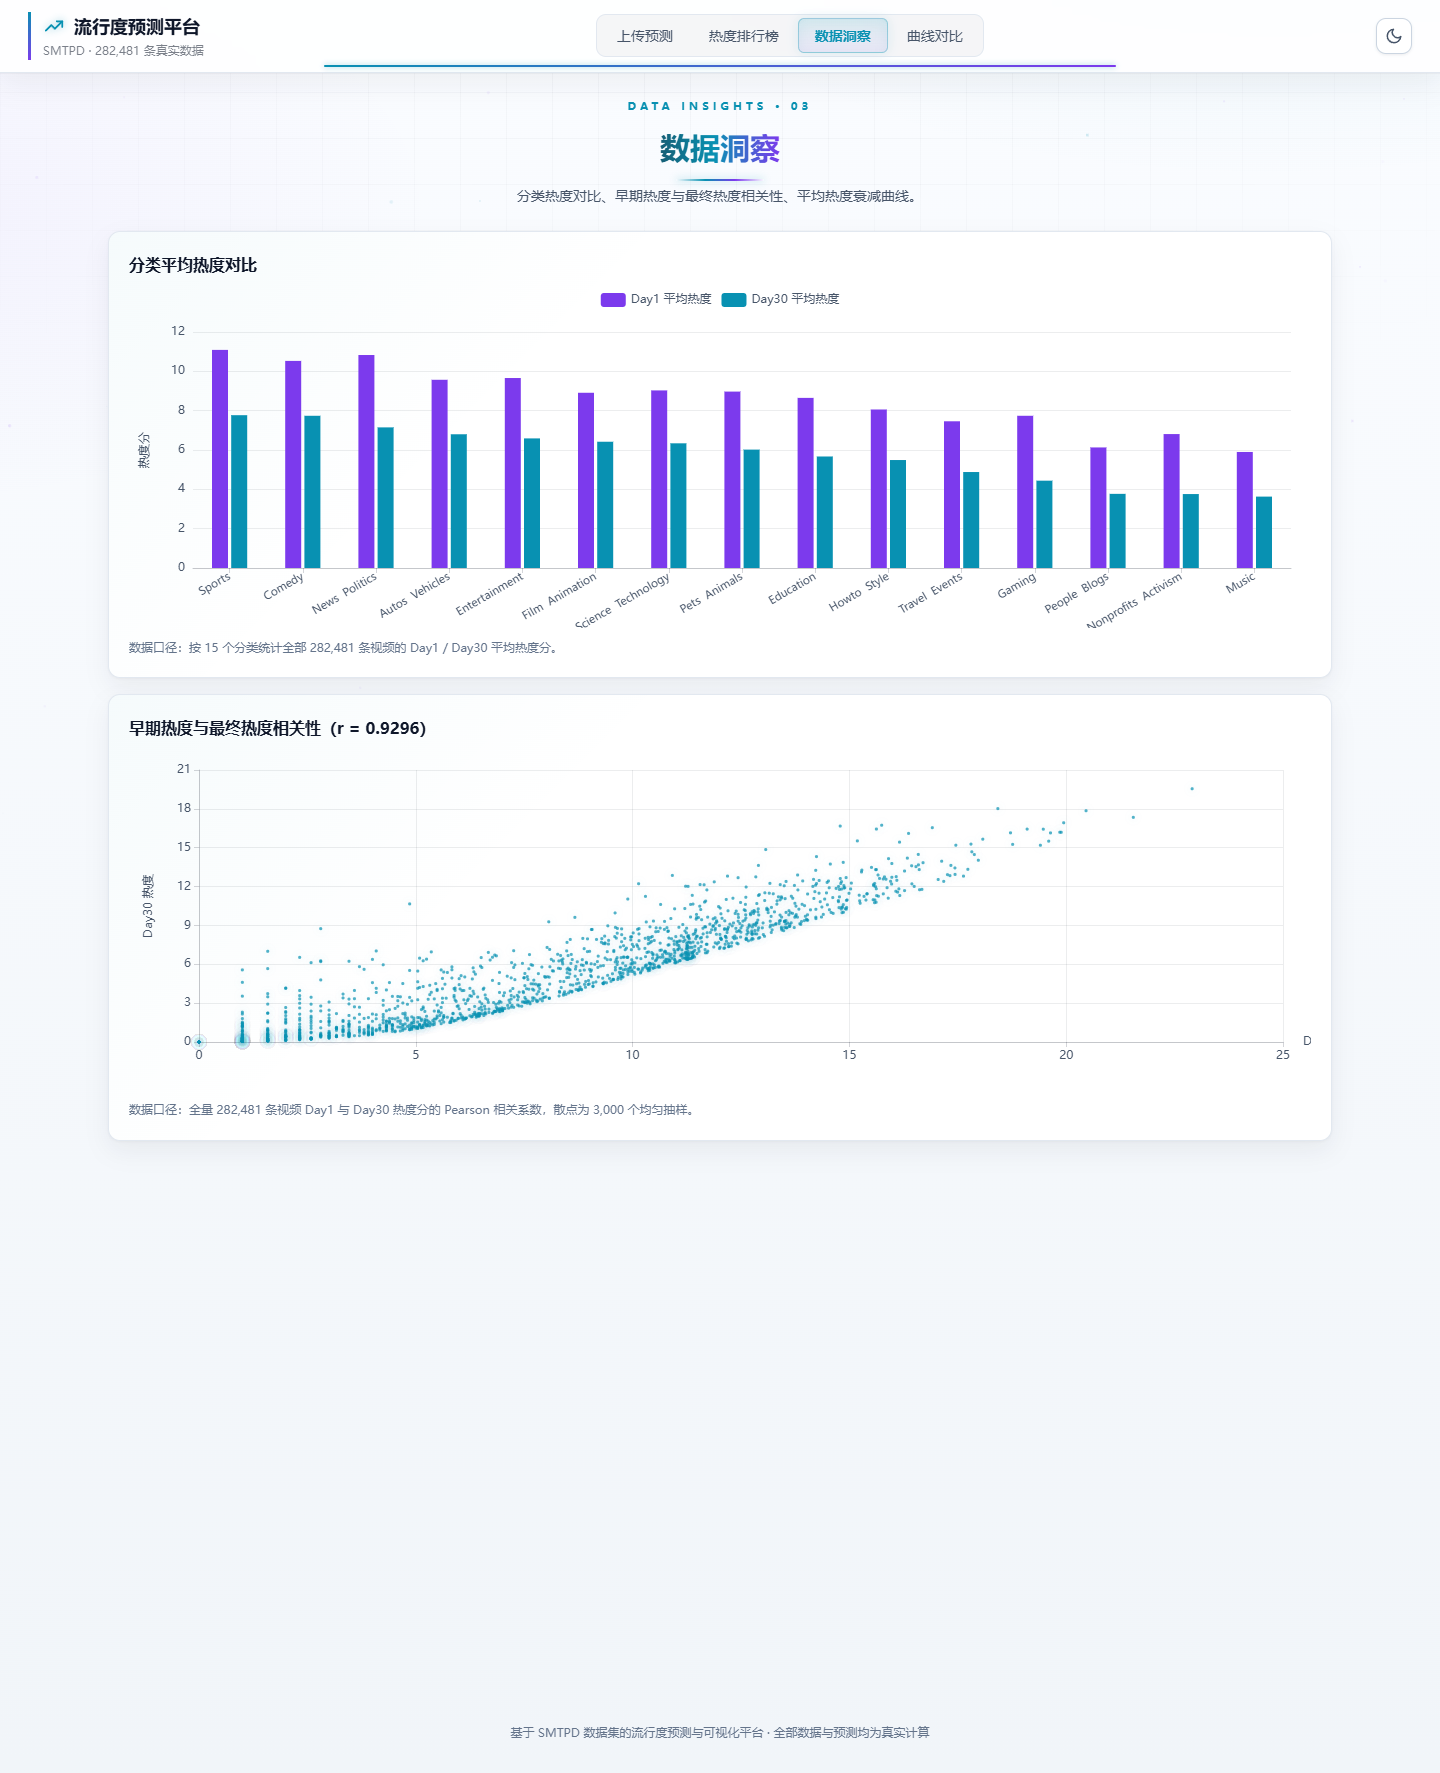
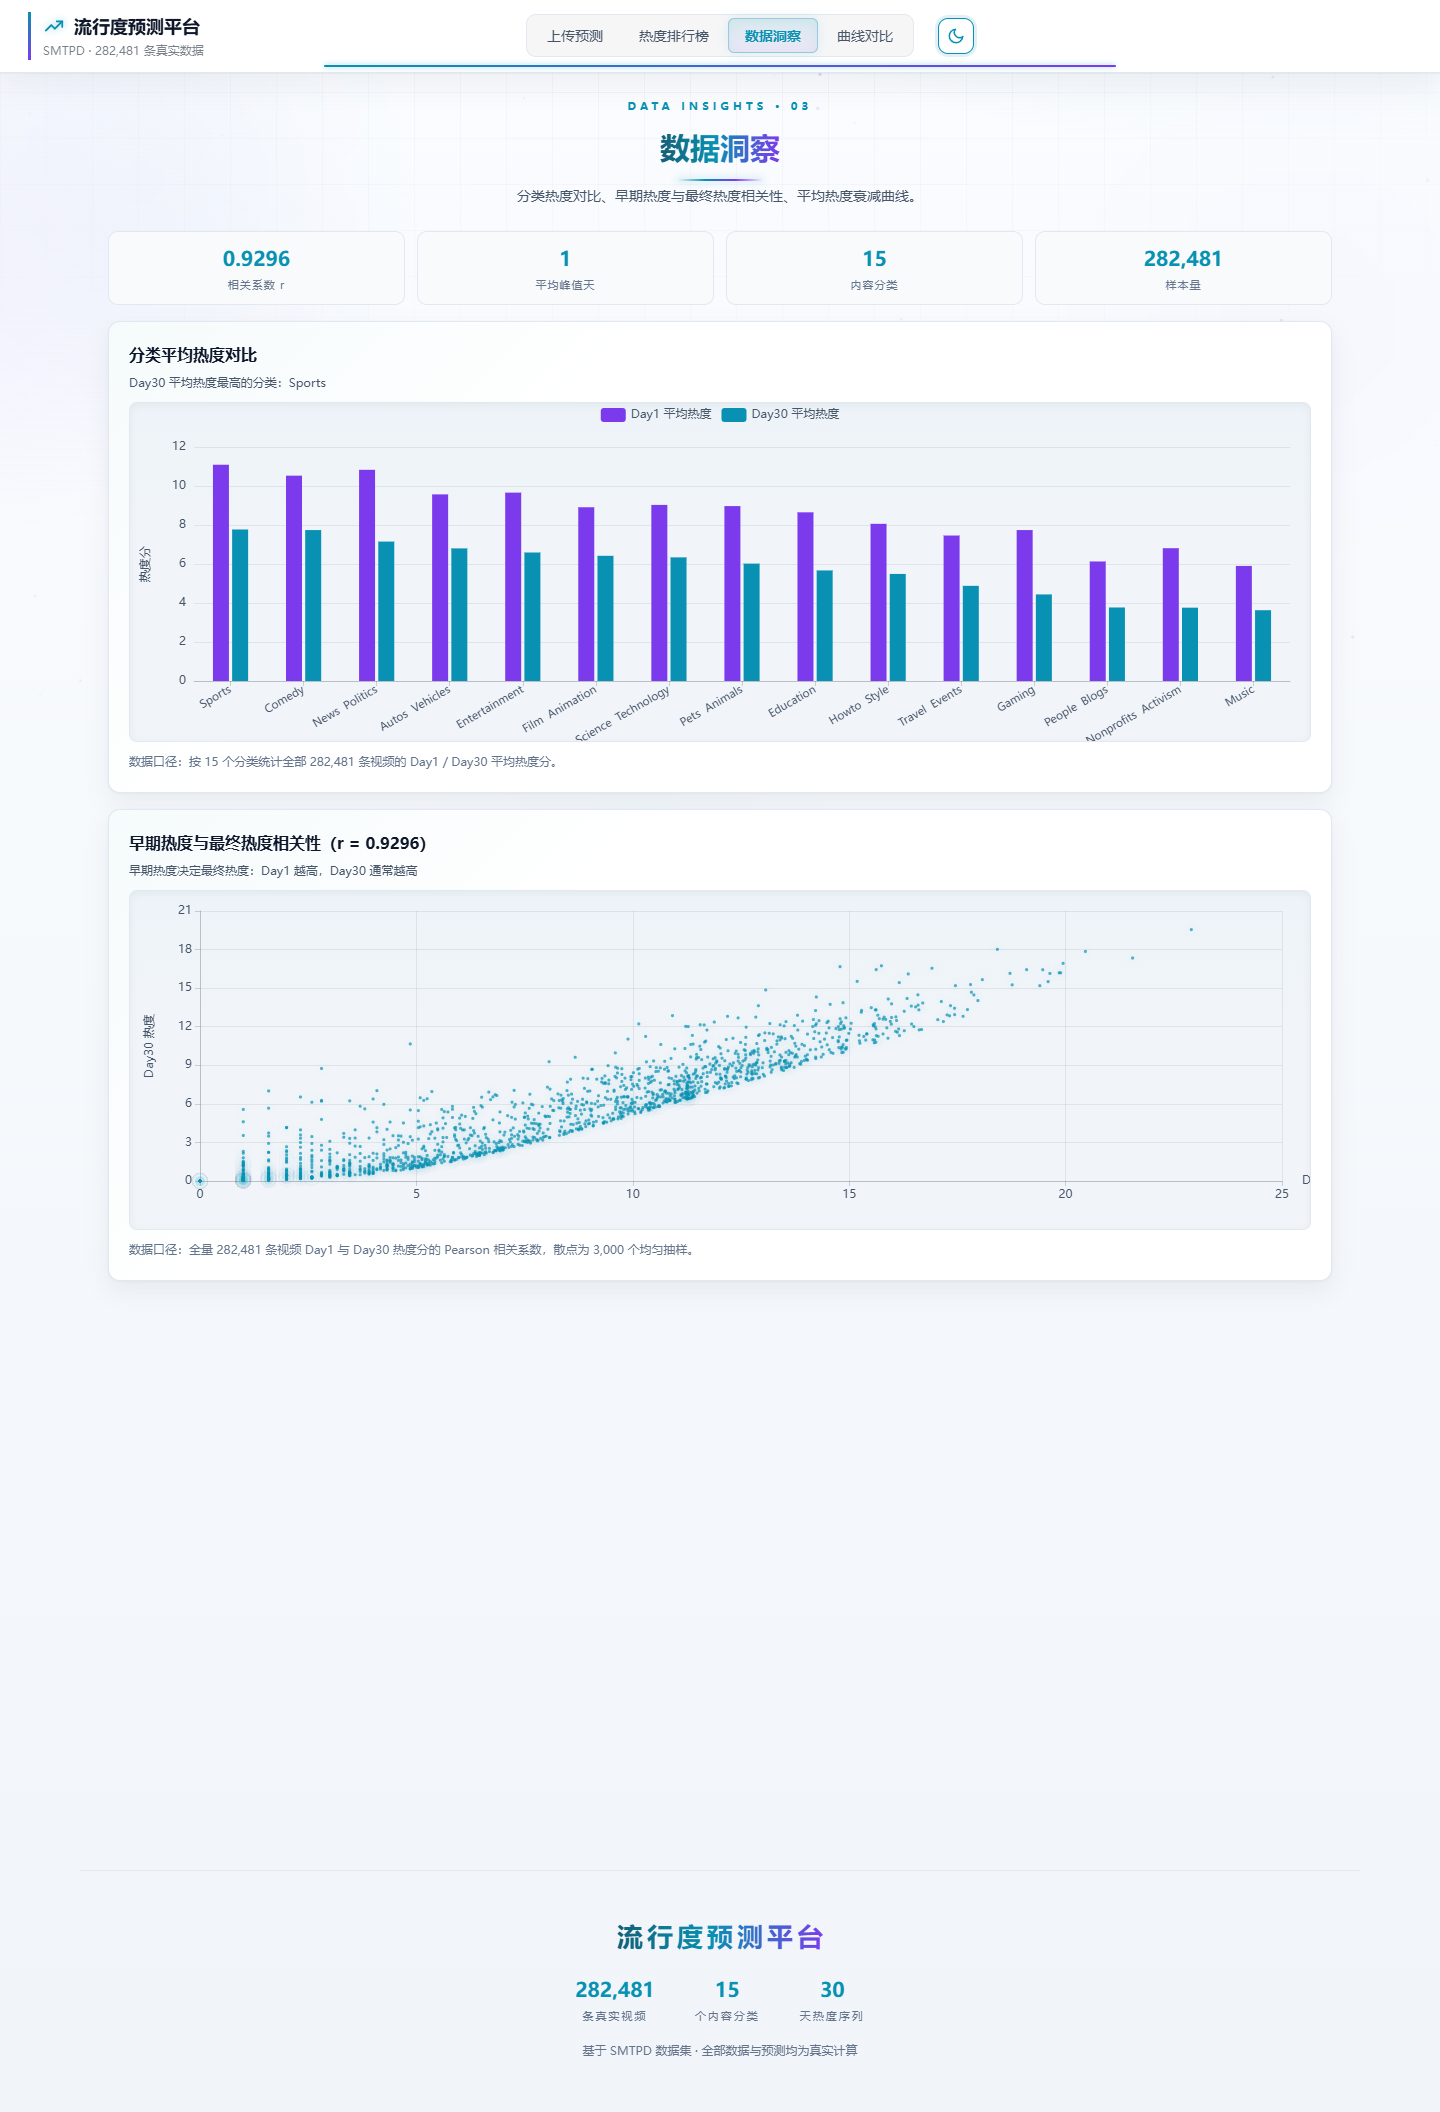
阶段G-6：对比页迷你趋势线 + 浅色粒子减半 + 详情大图 + 文档与截图更新

diff --git a/src/main/resources/static/js/compare.js b/src/main/resources/static/js/compare.js
@@ -123,9 +123,13 @@
         drawChart(items);
         const C = window.chartColors ? window.chartColors() : {};
         tableBody.innerHTML = items.map(function (video, i) {
+            const color = C[COLOR_KEYS[i % 3]] || COLORS[i % 3];
             return "<tr>" +
-                "<td><span class=\"legend-dot\" style=\"background:" + (C[COLOR_KEYS[i % 3]] || COLORS[i % 3]) + "\"></span>" +
-                escapeHtml(video.title) + "</td>" +
+                "<td>" +
+                "<span class=\"legend-dot\" style=\"background:" + color + "\"></span>" +
+                escapeHtml(video.title) +
+                sparkline(video.curve, color) +
+                "</td>" +
                 "<td>" + escapeHtml(video.userId) + "</td>" +
                 "<td>第 " + video.peakDay + " 天</td>" +
                 "<td>" + (video.decayRate * 100).toFixed(1) + "%</td>" +
@@ -133,6 +137,33 @@
                 "</tr>";
         }).join("");
         resultEl.scrollIntoView({ behavior: "smooth", block: "start" });
+    }
+
+    function sparkline(curve, color) {
+        if (!curve || curve.length < 2) {
+            return "";
+        }
+        const w = 120;
+        const h = 26;
+        const pad = 2;
+        let min = curve[0];
+        let max = curve[0];
+        curve.forEach(function (v) {
+            if (v < min) { min = v; }
+            if (v > max) { max = v; }
+        });
+        const range = max - min || 1;
+        const pts = curve.map(function (v, i) {
+            const x = pad + (i / (curve.length - 1)) * (w - pad * 2);
+            const y = h - pad - ((v - min) / range) * (h - pad * 2);
+            return x.toFixed(1) + "," + y.toFixed(1);
+        }).join(" ");
+        return '<div class="compare-spark-wrap">' +
+            '<svg class="compare-spark" viewBox="0 0 ' + w + " " + h +
+            '" width="' + w + '" height="' + h + '" preserveAspectRatio="none">' +
+            '<polyline points="' + pts + '" fill="none" stroke="' + color +
+            '" stroke-width="1.5" stroke-linejoin="round" stroke-linecap="round"/>' +
+            "</svg></div>";
     }
 
     function drawChart(items) {

diff --git a/src/main/resources/static/js/effects.js b/src/main/resources/static/js/effects.js
@@ -201,7 +201,9 @@
 
         var PALETTE_DARK = ["rgba(34, 211, 238, ALPHA)", "rgba(167, 139, 250, ALPHA)"];
         var PALETTE_LIGHT = ["rgba(8, 145, 178, ALPHA)", "rgba(124, 58, 237, ALPHA)"];
-        for (var i = 0; i < 55; i++) {
+        var lightMode = document.documentElement.getAttribute("data-theme") === "light";
+        var particleCount = lightMode ? 26 : 55;
+        for (var i = 0; i < particleCount; i++) {
             parts.push({
                 x: Math.random() * canvas.width,
                 y: Math.random() * canvas.height,

diff --git a/src/main/resources/static/css/style.css b/src/main/resources/static/css/style.css
@@ -2388,6 +2388,21 @@ html[data-theme="light"] .trend-chip:hover {
     gap: 14px;
 }
 
+/* ---- 阶段G-6：对比迷你趋势线 + 详情大图 ---- */
+.compare-spark-wrap {
+    margin-top: 6px;
+}
+
+.compare-spark {
+    display: block;
+    opacity: 0.85;
+}
+
+.detail-cover {
+    max-height: 400px;
+    border-radius: 10px;
+}
+
 /* ---- 阶段F-1：图表内陷面板 + 卡片顶部高光线 ---- */
 .predict-chart,
 .compare-chart,

diff --git a/README.md b/README.md
@@ -4,10 +4,11 @@
 
 ## 功能特性
 
-- **上传预测**：输入文案，检索最相似的历史视频（BM25 + FTS5 trigram 中文全文检索），以参考案例的真实曲线平均生成未来 30 天热度预测曲线（含峰值标注、参考案例卡片）
-- **热度排行榜**：浏览 282,481 条真实视频，支持榜单范围（全站 / 15 个分类）× 榜单口径（Day30 总榜 / Day1 新热榜 / 长红榜）切换，标题/标签/描述检索、分页与详情弹窗（真实 30 天曲线、峰值天、衰减率）
-- **数据洞察**：分类平均热度对比、Day1 与 Day30 热度相关性散点（r = 0.9296，早期热度决定最终热度）、平均热度衰减曲线（整体 / 分类切换）
-- **曲线对比**：任选 2~3 个视频叠加真实热度曲线，对比峰值天与衰减率，含预置示例
+- **趋势发现首页**：默认落地页，大搜索框 + 示例关键词 + 今日热点 Top 5（排名 / 封面 / 热度 / 涨跌），回车一键联动到预测
+- **上传预测**：输入文案，检索最相似的历史视频（BM25 + FTS5 trigram 中文全文检索），以参考案例的真实曲线平均生成未来 30 天热度预测曲线；结果区含 KPI（峰值天 / 预测 Day30 / 参考案例数）与全站平均对照虚线
+- **热度排行榜**：浏览 282,481 条真实视频，支持榜单范围（全站 / 15 个分类）× 榜单口径（Day30 总榜 / Day1 新热榜 / 长红榜）切换，标题/标签/描述检索、分页与详情弹窗；视频卡带排名序号、涨跌角标与 KPI 指标行
+- **数据洞察**：分类平均热度对比、Day1 与 Day30 热度相关性散点（r = 0.9296，早期热度决定最终热度）、平均热度衰减曲线（整体 / 分类切换），顶部 KPI 行 + 结论先行标题
+- **曲线对比**：任选 2~3 个视频叠加真实热度曲线，对比峰值天与衰减率，表格内嵌 30 点迷你趋势线，含预置示例
 - **深色 / 浅色双主题**：顶栏图标一键切换，图表实时重绘，选择持久化到 localStorage
 - **动效与交互**：预加载动画、背景粒子与极光光斑、滚动进度条、磁吸按钮、卡片 3D 倾斜、图表入场生长动画；滚动期间自动暂停重特效保证流畅
 
@@ -15,9 +16,11 @@
 
 | 深色模式 | 浅色模式 |
 | --- | --- |
+| ![趋势发现-深色](docs/screenshots/trend-dark.png) | ![趋势发现-浅色](docs/screenshots/trend-light.png) |
 | ![预测-深色](docs/screenshots/predict-dark.png) | ![预测-浅色](docs/screenshots/predict-light.png) |
 | ![排行榜-深色](docs/screenshots/ranking-dark.png) | ![排行榜-浅色](docs/screenshots/ranking-light.png) |
-| ![洞察-浅色](docs/screenshots/insights-light.png) | ![对比-浅色](docs/screenshots/compare-light.png) |
+| ![洞察-深色](docs/screenshots/insights-dark.png) | ![洞察-浅色](docs/screenshots/insights-light.png) |
+| ![对比-深色](docs/screenshots/compare-dark.png) | ![对比-浅色](docs/screenshots/compare-light.png) |
 
 ## 技术栈
 
@@ -84,7 +87,7 @@ mvn -s mvn-settings.xml test
 
 ```text
 src/main/java/com/prediction/   # Spring Boot 后端（api / data / service / config）
-src/main/resources/static/      # 前端四页面（index.html + css / js / lib）
+src/main/resources/static/      # 前端五页面（index.html + css / js / lib）
 scripts/                        # 数据处理脚本（建索引 / 封面提取 / 分卷还原）
 docs/                           # 方案、演示脚本、成果清单、重构报告
 data/                           # 数据资产（git 忽略）

diff --git a/docs/DEMO.md b/docs/DEMO.md
@@ -2,11 +2,11 @@
 
 ## 演示流程（约 5 分钟）
 
-1. **开场（30 秒）**：一句话介绍——基于 282,481 条真实 YouTube 数据（SMTPD）的流行度预测与可视化平台；强调页面里全部是真实数据，检索/预测目前为基线实现，模型可后接入。
-2. **上传预测（1 分钟）**：输入「三毛水果艺术」，展示参考案例与 30 天预测曲线；说明「基线预测 = 参考案例真实曲线平均，模型接入后替换」。
-3. **热度排行榜（1 分钟）**：搜索「火锅」（约 167 条）→ 翻页 → 点开一个视频看真实 30 天曲线、峰值天、衰减率。
-4. **数据洞察（1 分钟）**：指出 Day1 与 Day30 相关系数 r = 0.9296，说明「早期热度决定最终热度」；衰减曲线说明热度随时间衰减的整体规律。
-5. **曲线对比（1 分钟）**：点「示例：热门 vs 冷门」，叠加两条真实曲线直观对比。
+1. **开场（30 秒）**：默认打开「趋势发现」首页——大标题、搜索框、今日热点 Top 5（真实数据 + 涨跌标识）；一句话介绍：基于 282,481 条真实 YouTube 数据（SMTPD）的流行度预测与可视化平台。
+2. **搜索联动（40 秒）**：输入「三毛水果艺术」回车（或点示例词），自动跳转到上传预测并出结果；展示参考案例、30 天预测曲线、KPI 行（峰值天 / 预测 Day30 / 案例数）与全站平均对照虚线；说明「基线预测 = 参考案例真实曲线平均，模型接入后替换」。
+3. **热度排行榜（1 分钟）**：展示 KPI 指标行、排名序号与涨跌角标；搜索「火锅」（约 167 条）→ 翻页 → 点开一个视频看真实 30 天曲线、峰值天、衰减率。
+4. **数据洞察（1 分钟）**：指出 KPI 行 r = 0.9296，说明「早期热度决定最终热度」；衰减曲线说明热度随时间衰减的整体规律；结论标题直击要点。
+5. **曲线对比（1 分钟）**：点「示例：热门 vs 冷门」，叠加两条真实曲线，表格内迷你趋势线直观对比。
 6. **主题与动效（30 秒）**：点击右上角图标切换浅色/深色模式，展示图表实时重绘；可顺带展示预加载、图表入场动画。
 7. **收尾（30 秒）**：架构一句话——Java 网关 + SQLite 索引 + 本地化前端；模型接入点已预留（`app.prediction-mode=remote`）。
 

diff --git a/docs/成果清单.md b/docs/成果清单.md
@@ -36,12 +36,13 @@
 | `POST /api/predict` | 上传图文 + 30 天基线预测 |
 | `GET /covers/{前缀}/{id}.jpg` | 封面（按需提取 / 占位图） |
 
-## 页面（4 个）
+## 页面（5 个）
 
-1. 上传预测：参考案例 + 30 天预测曲线（明确标注基线预测）
-2. 热度排行榜：筛选 / 搜索 / 分页 / 详情弹窗（真实曲线与指标）
-3. 数据洞察：分类热度对比、Day1-Day30 相关性散点（r = 0.9296）、平均衰减曲线（整体/分类）
-4. 曲线对比：多视频叠加曲线 + 指标表 + 预置示例
+1. 趋势发现：默认落地页，大搜索 + 示例词 + 今日热点 Top 5，回车联动预测
+2. 上传预测：参考案例 + 30 天预测曲线 + KPI 行 + 全站平均对照线（明确标注基线预测）
+3. 热度排行榜：KPI 指标行 / 排名序号 / 涨跌角标 / 筛选搜索分页 / 详情弹窗
+4. 数据洞察：KPI 行 + 结论标题（分类热度对比、r = 0.9296、平均衰减曲线）
+5. 曲线对比：多视频叠加曲线 + 指标表 + 30 点迷你趋势线 + 预置示例
 
 ## 最终视觉特性
 
@@ -49,6 +50,7 @@
 - 动效体系：预加载、背景粒子与极光光斑、滚动进度条、磁吸按钮、卡片 3D 倾斜、图表入场生长动画
 - 细节：图表内陷面板、封面相框感、数字等宽排版、统计单位后缀、顶栏滚动收缩、页脚数据行
 - 性能：滚动期间自动暂停重特效；修复 fixed 背景与 backdrop-filter 造成的滚动卡顿
+- 趋势产品化（2026-08）：趋势发现首页、排行榜 KPI/排名序号/涨跌角标、预测 KPI + 全站平均对照线、洞察 KPI + 结论标题、对比页迷你趋势线
 
 ## 与申报书对应
 

diff --git a/docs/项目重构报告.md b/docs/项目重构报告.md
@@ -135,3 +135,16 @@ mvn -s mvn-settings.xml spring-boot:run
 - `docs/DEMO.md`：演示脚本与故障应对
 - `docs/PLAN.md`：完整方案与变更记录
 - `docs/screenshots/`：界面截图（深浅两套主题）
+
+## 十二、趋势产品化升级（2026-08-13）
+
+参考 similarweb / explodingtopics 等趋势分析产品的交互范式，对平台进行一轮「趋势发现」产品化升级，全部基于真实数据：
+
+1. **列表接口增加 day1 字段**：排行榜涨跌与首页热点共用，向后兼容；
+2. **热度排行榜**：KPI 指标行升级为 4 卡（总数 / 分类 / 平均 Day30 热度 / 平均峰值天），视频卡增加排名序号与涨跌角标（↑↓，真实计算），搜索框加大；
+3. **上传预测结果区**：新增 KPI 行（峰值天 / 预测 Day30 / 参考案例数）与全站平均对照虚线，预测像一份「报告」；
+4. **数据洞察**：新增洞察 KPI 行（r / 峰值天 / 分类数 / 样本量）与结论先行标题；
+5. **趋势发现首页**：新增默认落地页——Hero 大标题、居中大搜索框、示例关键词 chips、今日热点 Top 5，搜索回车/示例词一键联动到预测；
+6. **曲线对比**：指标表内嵌 30 点迷你趋势线；浅色模式粒子数量减半；详情弹窗封面大图化。
+
+每步均通过 Playwright 双主题截图与数据核对验证后提交。
